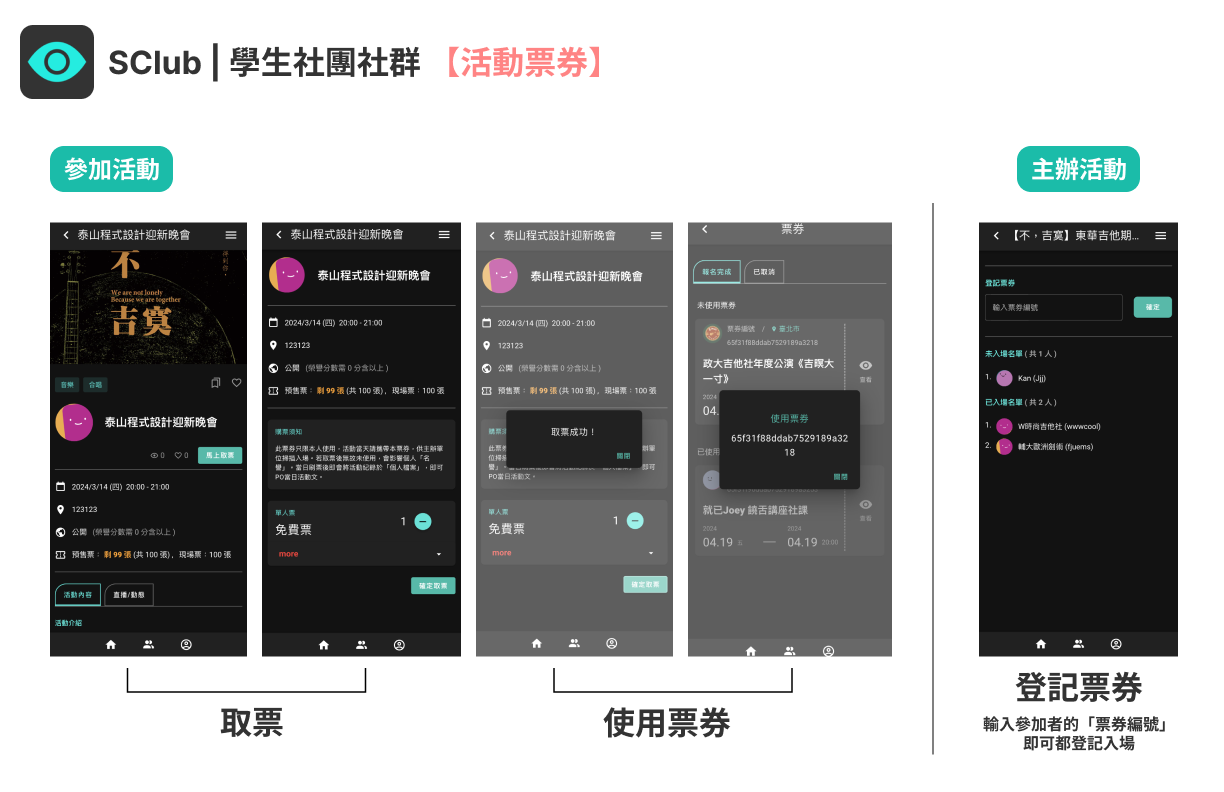
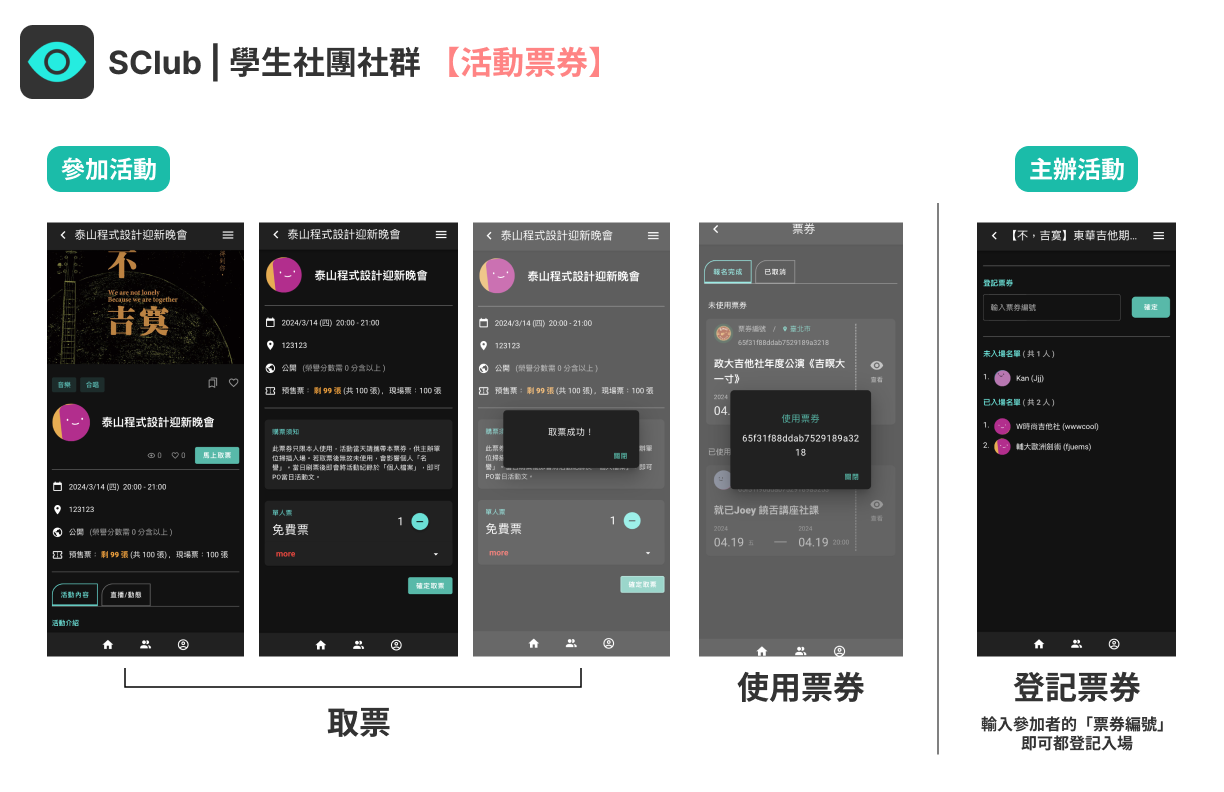
Deploying to gh-pages from @ Leileisme/SClub-front@df8623007d295e92628c1ade084cd41b8fde3dfa 🚀

diff --git a/sw.js b/sw.js
@@ -1,1 +1,1 @@
-if(!self.define){let s,e={};const i=(i,l)=>(i=new URL(i+".js",l).href,e[i]||new Promise((e=>{if("document"in self){const s=document.createElement("script");s.src=i,s.onload=e,document.head.appendChild(s)}else s=i,importScripts(i),e()})).then((()=>{let s=e[i];if(!s)throw new Error(`Module ${i} didn’t register its module`);return s})));self.define=(l,n)=>{const r=s||("document"in self?document.currentScript.src:"")||location.href;if(e[r])return;let a={};const u=s=>i(s,r),o={module:{uri:r},exports:a,require:u};e[r]=Promise.all(l.map((s=>o[s]||u(s)))).then((s=>(n(...s),a)))}}define(["./workbox-3e911b1d"],(function(s){"use strict";self.skipWaiting(),s.clientsClaim(),s.precacheAndRoute([{url:"android-chrome-192x192.png",revision:"c71c9f20a4f6f4ea317bcb8ecf894471"},{url:"android-chrome-256x256.png",revision:"1dfdd1f78751e5089d20925ca5191c39"},{url:"apple-touch-icon.png",revision:"551807dcea37db938b206e5849e43ad5"},{url:"assets/_plugin-vue_export-helper-c27b6911.js",revision:null},{url:"assets/AdminLayout-12f02353.css",revision:null},{url:"assets/AdminLayout-fb5c498f.js",revision:null},{url:"assets/BlankLine-5662eb50.js",revision:null},{url:"assets/EventHome-00ce637a.css",revision:null},{url:"assets/EventHome-02db5654.js",revision:null},{url:"assets/EventId-0c2a507f.js",revision:null},{url:"assets/EventIdHome-99bd9de0.js",revision:null},{url:"assets/EventInfo-aedac978.js",revision:null},{url:"assets/EventSetList-a22cb848.js",revision:null},{url:"assets/EventView-8f5ffa50.js",revision:null},{url:"assets/FrontLayout-805d8d9c.js",revision:null},{url:"assets/FrontLayout-8853ea72.css",revision:null},{url:"assets/GetTicket-12985e35.css",revision:null},{url:"assets/GetTicket-c2d367a7.js",revision:null},{url:"assets/HomeView-1becb141.js",revision:null},{url:"assets/HomeView-477004d1.js",revision:null},{url:"assets/HomeView-6f6d863a.css",revision:null},{url:"assets/HomeView-71c2886e.css",revision:null},{url:"assets/index-7317009d.js",revision:null},{url:"assets/index-da7f7eb4.js",revision:null},{url:"assets/index-f2b12680.css",revision:null},{url:"assets/InfoAll-75444bee.js",revision:null},{url:"assets/LoginView-228c4658.js",revision:null},{url:"assets/LoginView-5db22a36.css",revision:null},{url:"assets/materialdesignicons-webfont-48d3eec6.woff",revision:null},{url:"assets/materialdesignicons-webfont-861aea05.eot",revision:null},{url:"assets/materialdesignicons-webfont-bd725a7a.ttf",revision:null},{url:"assets/materialdesignicons-webfont-e52d60f6.woff2",revision:null},{url:"assets/mitt-43e253ae.js",revision:null},{url:"assets/NotFoundView-c9035315.js",revision:null},{url:"assets/PersonalView-58d1ce05.css",revision:null},{url:"assets/PersonalView-fa0b7e1b.js",revision:null},{url:"assets/PostView-3272b53a.js",revision:null},{url:"assets/RegisterView-037fc6ac.js",revision:null},{url:"assets/RegisterView-6f8c42ed.css",revision:null},{url:"assets/ssrBoot-e901857e.js",revision:null},{url:"assets/swiper-bundle-b51df72b.css",revision:null},{url:"assets/swiper-bundle-f8b0b54a.js",revision:null},{url:"assets/TicketAppBar-8e4fba62.js",revision:null},{url:"assets/TicketUsed-0951e381.js",revision:null},{url:"assets/TicketUsed-3922caba.css",revision:null},{url:"assets/TicketUsed-495f8404.js",revision:null},{url:"assets/TicketUseState-e7a697a0.js",revision:null},{url:"assets/TicketView-8c6115e4.js",revision:null},{url:"assets/VAppBarTitle-467b01b3.css",revision:null},{url:"assets/VAppBarTitle-70df4e54.js",revision:null},{url:"assets/VCol-ee419190.js",revision:null},{url:"assets/VContainer-b965c37c.js",revision:null},{url:"assets/VDatePicker-6d0cfa45.css",revision:null},{url:"assets/VDatePicker-f4405f7b.js",revision:null},{url:"assets/VDivider-34b8293d.js",revision:null},{url:"assets/VDivider-357e019d.css",revision:null},{url:"assets/vee-validate.esm-22b359d1.js",revision:null},{url:"assets/VList-3c75145f.css",revision:null},{url:"assets/VList-43dfcc27.js",revision:null},{url:"assets/VListItem-816a63c5.js",revision:null},{url:"assets/VListItem-fedb5323.css",revision:null},{url:"assets/VMenu-9c99b877.css",revision:null},{url:"assets/VMenu-c828465d.js",revision:null},{url:"assets/VNavigationDrawer-bccd8241.js",revision:null},{url:"assets/VNavigationDrawer-cd4645e5.css",revision:null},{url:"assets/VRow-43dae47c.js",revision:null},{url:"assets/VSelect-08959645.js",revision:null},{url:"assets/VSelect-a5d71870.css",revision:null},{url:"assets/VSlideGroup-29d5f701.js",revision:null},{url:"assets/VSlideGroup-80d5799a.css",revision:null},{url:"assets/VTabs-991ed115.js",revision:null},{url:"assets/VTabs-b36fd646.css",revision:null},{url:"assets/VWindowItem-72fb4d35.css",revision:null},{url:"assets/VWindowItem-d213177d.js",revision:null},{url:"favicon-16x16.png",revision:"d6579af6383952faa13586526dfb9bbd"},{url:"favicon-32x32.png",revision:"d0bc12404600af043e9d587f726b0fc4"},{url:"favicon.ico",revision:"f0f3a3842dfc458767198122eee296ed"},{url:"index.html",revision:"8cc8655a67bae514a76e87bd0205032c"},{url:"mstile-150x150.png",revision:"2b0f538be95221bc2f98bbddc9c15e33"},{url:"readme-image/01.png",revision:"d0599e151565a044ef69c089254bc4b1"},{url:"readme-image/02.png",revision:"639b74c7fa938e80b4ab050c646b06e2"},{url:"readme-image/03.png",revision:"e3f60ab045e59602a40318884f78fb85"},{url:"readme-image/04.png",revision:"9c48feb175f370fd601f4dc2ccf2284a"},{url:"readme-image/05.png",revision:"25822c95a440e7722ecbad5a501d379e"},{url:"readme-image/06.png",revision:"7dd31f757db1635585f6d9ac47d1abb7"},{url:"readme-image/07.png",revision:"83912716bca07ef7188d97100b92a1d4"},{url:"readme-image/08.png",revision:"9253b18cd06b32a6c823420d9945ec2a"},{url:"readme-image/09.png",revision:"9af13dec9435e3ca1feea4bda26153ee"},{url:"readme-image/10.png",revision:"ea1ff45c6766731b245eb0b932d2c668"},{url:"registerSW.js",revision:"402b66900e731ca748771b6fc5e7a068"},{url:"safari-pinned-tab.svg",revision:"57559e2475c8ef34a8de91331d1d9c39"},{url:"splashscreens/ipad_splash.png",revision:"ea79c49f99763247d728fbf6bf00f0e5"},{url:"splashscreens/ipadpro1_splash.png",revision:"5e41e3fd7174548ba7d573c21d312ce8"},{url:"splashscreens/ipadpro2_splash.png",revision:"ef28ae59765c1f2a8c4b0e959fcd6981"},{url:"splashscreens/ipadpro3_splash.png",revision:"999d8f4d1989af22db5638bb597a004c"},{url:"splashscreens/iphone5_splash.png",revision:"21286bd6c8898b55fd56bcd6a13424bf"},{url:"splashscreens/iphone6_splash.png",revision:"33258bb01f99af3047f6b50adff13d71"},{url:"splashscreens/iphoneplus_splash.png",revision:"71469807f830cab31859f69b11cad45e"},{url:"splashscreens/iphonex_splash.png",revision:"fac0cefb45462b01280c8b28516153fb"},{url:"splashscreens/iphonexr_splash.png",revision:"8e7698aa8c0be0bc36aa2a239b69cf7d"},{url:"splashscreens/iphonexsmax_splash.png",revision:"c9a19b5171ce4f89510567c6b760372a"},{url:"./android-chrome-192x192.png",revision:"c71c9f20a4f6f4ea317bcb8ecf894471"},{url:"./android-chrome-256x256.png",revision:"1dfdd1f78751e5089d20925ca5191c39"},{url:"manifest.webmanifest",revision:"05a70df92aec37bd65cdaeedc3aa4a6f"}],{ignoreURLParametersMatching:[/.*/]}),s.cleanupOutdatedCaches(),s.registerRoute(new s.NavigationRoute(s.createHandlerBoundToURL("index.html")))}));
+if(!self.define){let s,e={};const i=(i,l)=>(i=new URL(i+".js",l).href,e[i]||new Promise((e=>{if("document"in self){const s=document.createElement("script");s.src=i,s.onload=e,document.head.appendChild(s)}else s=i,importScripts(i),e()})).then((()=>{let s=e[i];if(!s)throw new Error(`Module ${i} didn’t register its module`);return s})));self.define=(l,n)=>{const r=s||("document"in self?document.currentScript.src:"")||location.href;if(e[r])return;let a={};const u=s=>i(s,r),o={module:{uri:r},exports:a,require:u};e[r]=Promise.all(l.map((s=>o[s]||u(s)))).then((s=>(n(...s),a)))}}define(["./workbox-3e911b1d"],(function(s){"use strict";self.skipWaiting(),s.clientsClaim(),s.precacheAndRoute([{url:"android-chrome-192x192.png",revision:"c71c9f20a4f6f4ea317bcb8ecf894471"},{url:"android-chrome-256x256.png",revision:"1dfdd1f78751e5089d20925ca5191c39"},{url:"apple-touch-icon.png",revision:"551807dcea37db938b206e5849e43ad5"},{url:"assets/_plugin-vue_export-helper-c27b6911.js",revision:null},{url:"assets/AdminLayout-12f02353.css",revision:null},{url:"assets/AdminLayout-fb5c498f.js",revision:null},{url:"assets/BlankLine-5662eb50.js",revision:null},{url:"assets/EventHome-00ce637a.css",revision:null},{url:"assets/EventHome-02db5654.js",revision:null},{url:"assets/EventId-0c2a507f.js",revision:null},{url:"assets/EventIdHome-99bd9de0.js",revision:null},{url:"assets/EventInfo-aedac978.js",revision:null},{url:"assets/EventSetList-a22cb848.js",revision:null},{url:"assets/EventView-8f5ffa50.js",revision:null},{url:"assets/FrontLayout-805d8d9c.js",revision:null},{url:"assets/FrontLayout-8853ea72.css",revision:null},{url:"assets/GetTicket-12985e35.css",revision:null},{url:"assets/GetTicket-c2d367a7.js",revision:null},{url:"assets/HomeView-1becb141.js",revision:null},{url:"assets/HomeView-477004d1.js",revision:null},{url:"assets/HomeView-6f6d863a.css",revision:null},{url:"assets/HomeView-71c2886e.css",revision:null},{url:"assets/index-7317009d.js",revision:null},{url:"assets/index-da7f7eb4.js",revision:null},{url:"assets/index-f2b12680.css",revision:null},{url:"assets/InfoAll-75444bee.js",revision:null},{url:"assets/LoginView-228c4658.js",revision:null},{url:"assets/LoginView-5db22a36.css",revision:null},{url:"assets/materialdesignicons-webfont-48d3eec6.woff",revision:null},{url:"assets/materialdesignicons-webfont-861aea05.eot",revision:null},{url:"assets/materialdesignicons-webfont-bd725a7a.ttf",revision:null},{url:"assets/materialdesignicons-webfont-e52d60f6.woff2",revision:null},{url:"assets/mitt-43e253ae.js",revision:null},{url:"assets/NotFoundView-c9035315.js",revision:null},{url:"assets/PersonalView-58d1ce05.css",revision:null},{url:"assets/PersonalView-fa0b7e1b.js",revision:null},{url:"assets/PostView-3272b53a.js",revision:null},{url:"assets/RegisterView-037fc6ac.js",revision:null},{url:"assets/RegisterView-6f8c42ed.css",revision:null},{url:"assets/ssrBoot-e901857e.js",revision:null},{url:"assets/swiper-bundle-b51df72b.css",revision:null},{url:"assets/swiper-bundle-f8b0b54a.js",revision:null},{url:"assets/TicketAppBar-8e4fba62.js",revision:null},{url:"assets/TicketUsed-0951e381.js",revision:null},{url:"assets/TicketUsed-3922caba.css",revision:null},{url:"assets/TicketUsed-495f8404.js",revision:null},{url:"assets/TicketUseState-e7a697a0.js",revision:null},{url:"assets/TicketView-8c6115e4.js",revision:null},{url:"assets/VAppBarTitle-467b01b3.css",revision:null},{url:"assets/VAppBarTitle-70df4e54.js",revision:null},{url:"assets/VCol-ee419190.js",revision:null},{url:"assets/VContainer-b965c37c.js",revision:null},{url:"assets/VDatePicker-6d0cfa45.css",revision:null},{url:"assets/VDatePicker-f4405f7b.js",revision:null},{url:"assets/VDivider-34b8293d.js",revision:null},{url:"assets/VDivider-357e019d.css",revision:null},{url:"assets/vee-validate.esm-22b359d1.js",revision:null},{url:"assets/VList-3c75145f.css",revision:null},{url:"assets/VList-43dfcc27.js",revision:null},{url:"assets/VListItem-816a63c5.js",revision:null},{url:"assets/VListItem-fedb5323.css",revision:null},{url:"assets/VMenu-9c99b877.css",revision:null},{url:"assets/VMenu-c828465d.js",revision:null},{url:"assets/VNavigationDrawer-bccd8241.js",revision:null},{url:"assets/VNavigationDrawer-cd4645e5.css",revision:null},{url:"assets/VRow-43dae47c.js",revision:null},{url:"assets/VSelect-08959645.js",revision:null},{url:"assets/VSelect-a5d71870.css",revision:null},{url:"assets/VSlideGroup-29d5f701.js",revision:null},{url:"assets/VSlideGroup-80d5799a.css",revision:null},{url:"assets/VTabs-991ed115.js",revision:null},{url:"assets/VTabs-b36fd646.css",revision:null},{url:"assets/VWindowItem-72fb4d35.css",revision:null},{url:"assets/VWindowItem-d213177d.js",revision:null},{url:"favicon-16x16.png",revision:"d6579af6383952faa13586526dfb9bbd"},{url:"favicon-32x32.png",revision:"d0bc12404600af043e9d587f726b0fc4"},{url:"favicon.ico",revision:"f0f3a3842dfc458767198122eee296ed"},{url:"index.html",revision:"8cc8655a67bae514a76e87bd0205032c"},{url:"mstile-150x150.png",revision:"2b0f538be95221bc2f98bbddc9c15e33"},{url:"readme-image/01.png",revision:"d0599e151565a044ef69c089254bc4b1"},{url:"readme-image/02.png",revision:"639b74c7fa938e80b4ab050c646b06e2"},{url:"readme-image/03.png",revision:"e3f60ab045e59602a40318884f78fb85"},{url:"readme-image/04.png",revision:"9c48feb175f370fd601f4dc2ccf2284a"},{url:"readme-image/05.png",revision:"25822c95a440e7722ecbad5a501d379e"},{url:"readme-image/06.png",revision:"7dd31f757db1635585f6d9ac47d1abb7"},{url:"readme-image/07.png",revision:"83912716bca07ef7188d97100b92a1d4"},{url:"readme-image/08.png",revision:"9253b18cd06b32a6c823420d9945ec2a"},{url:"readme-image/09.png",revision:"9af13dec9435e3ca1feea4bda26153ee"},{url:"readme-image/10.png",revision:"9cf3c3423f565958b9b925b2286bb391"},{url:"registerSW.js",revision:"402b66900e731ca748771b6fc5e7a068"},{url:"safari-pinned-tab.svg",revision:"57559e2475c8ef34a8de91331d1d9c39"},{url:"splashscreens/ipad_splash.png",revision:"ea79c49f99763247d728fbf6bf00f0e5"},{url:"splashscreens/ipadpro1_splash.png",revision:"5e41e3fd7174548ba7d573c21d312ce8"},{url:"splashscreens/ipadpro2_splash.png",revision:"ef28ae59765c1f2a8c4b0e959fcd6981"},{url:"splashscreens/ipadpro3_splash.png",revision:"999d8f4d1989af22db5638bb597a004c"},{url:"splashscreens/iphone5_splash.png",revision:"21286bd6c8898b55fd56bcd6a13424bf"},{url:"splashscreens/iphone6_splash.png",revision:"33258bb01f99af3047f6b50adff13d71"},{url:"splashscreens/iphoneplus_splash.png",revision:"71469807f830cab31859f69b11cad45e"},{url:"splashscreens/iphonex_splash.png",revision:"fac0cefb45462b01280c8b28516153fb"},{url:"splashscreens/iphonexr_splash.png",revision:"8e7698aa8c0be0bc36aa2a239b69cf7d"},{url:"splashscreens/iphonexsmax_splash.png",revision:"c9a19b5171ce4f89510567c6b760372a"},{url:"./android-chrome-192x192.png",revision:"c71c9f20a4f6f4ea317bcb8ecf894471"},{url:"./android-chrome-256x256.png",revision:"1dfdd1f78751e5089d20925ca5191c39"},{url:"manifest.webmanifest",revision:"05a70df92aec37bd65cdaeedc3aa4a6f"}],{ignoreURLParametersMatching:[/.*/]}),s.cleanupOutdatedCaches(),s.registerRoute(new s.NavigationRoute(s.createHandlerBoundToURL("index.html")))}));
